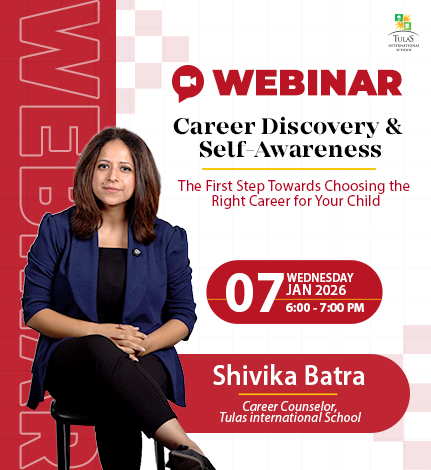
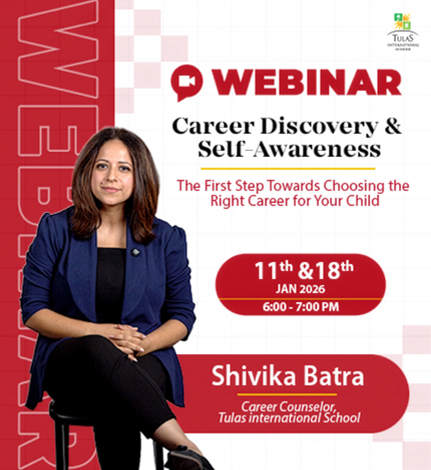
changes

diff --git a/app/boarding-school/webinar-new/Components/Banner/Banner.js b/app/boarding-school/webinar-new/Components/Banner/Banner.js
@@ -20,7 +20,7 @@ export default function Banner() {
       <div className="w-full bg-[#b90124] py-3 px-6 lg:px-20">
         <h3 className="text-md md:text-xl text-white text-center font-semibold flex md:items-center justify-center gap-3">
           <Bell className="text-[#ffff] w-7 h-7" />
-          Mark Your Calenders! Join Us on 7 JAN 2026, at 6:00 PM for an Exclusive Webinar! 
+          Mark Your Calenders! Join Us on 11th & 18th JAN 2026, at 6:00 PM for an Exclusive Webinar! 
         </h3>
       </div>
 
@@ -73,7 +73,7 @@ export default function Banner() {
             <div className="h-[2px] bg-[#b90124] rounded-full mx-auto" style={{ width: "40%", marginTop: '-1px' }}></div>
 
             <div className="grid grid-cols-2 gap-5 md:gap-6 text-lg">
-              <DetailCard icon={<Calendar />} label="Date" value="7th Jan 2026" />
+              <DetailCard icon={<Calendar />} label="Date" value="11th & 18th Jan 2026" />
               <DetailCard icon={<Clock />} label="Time" value="6:00 - 7:00 PM IST" />
               <DetailCard icon={<Video />} label="Platform" value="Google Meet" />
               <DetailCard icon={<Hourglass />} label="Duration" value="1 Hour" />
